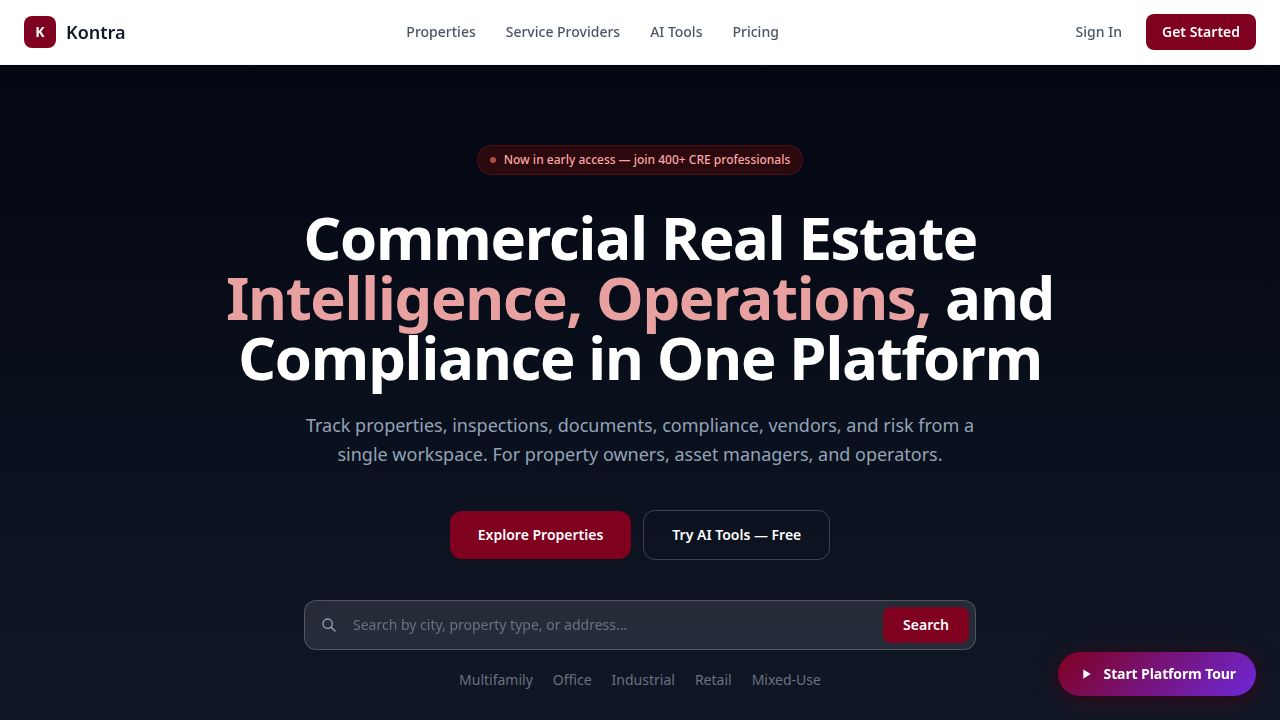
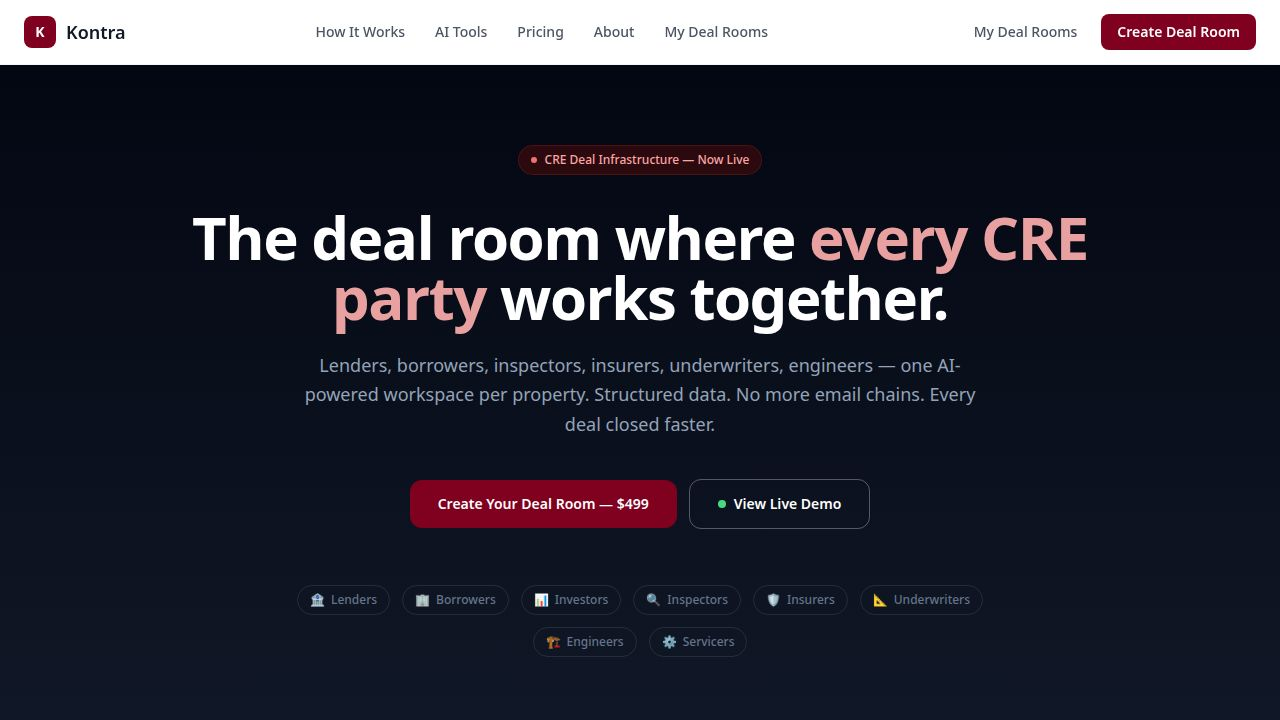
Update the demo deal room to display live property information
Modify the DealRoomPage and related components to dynamically display demo property data and suppress certain UI elements for a read-only experience. Update the seed-demo.js script to populate the demo deal room with relevant data.

Replit-Commit-Author: Agent
Replit-Commit-Session-Id: b37e2fe5-8174-4ac1-80ce-5b05dc734bf9
Replit-Commit-Checkpoint-Type: full_checkpoint
Replit-Commit-Event-Id: edbdeaed-9897-41a5-a7bc-4b3372b62b30
Replit-Commit-Screenshot-Url: https://storage.googleapis.com/screenshot-production-us-central1/43b2d839-9258-4985-bc9b-23e6ed0a3cc7/b37e2fe5-8174-4ac1-80ce-5b05dc734bf9/JeFcH1q
Replit-Helium-Checkpoint-Created: true

diff --git a/kontra-ui-clone/api/seed-demo.js b/kontra-ui-clone/api/seed-demo.js
@@ -1,0 +1,214 @@
+require('dotenv').config({ override: true });
+const { supabase } = require('./db');
+
+async function seed() {
+  const now = Date.now();
+  const daysAgo = d => new Date(now - d * 86400000).toISOString();
+
+  // 1. Upsert the demo deal room
+  const { error: roomErr } = await supabase.from('deal_rooms').upsert({
+    property_id: 'kontra-demo',
+    property_name: 'The Meridian Apartments',
+    property_type: 'Multifamily',
+    address: '4200 Lamar Blvd, Austin, TX 78756',
+    deal_amount: 14000000,
+    deal_type: 'Acquisition',
+    deal_stage: 'under_review',
+    status: 'active',
+    customer_email: '[email redacted]',
+    first_name: 'Demo',
+    activated_at: daysAgo(12),
+    created_at: daysAgo(14),
+  }, { onConflict: 'property_id' });
+  console.log('deal_rooms:', roomErr?.message || '✅');
+
+  // 2. Clear and re-seed analyses
+  await supabase.from('deal_analyses').delete().eq('property_id', 'kontra-demo');
+
+  const analyses = [
+    {
+      section: 'financials',
+      filename: 'meridian-t12-operating-statement.pdf',
+      uploaded_by_role: 'owner',
+      created_at: daysAgo(11),
+      analysis: {
+        documentType: "T-12 Operating Statement",
+        noi: "$842,400", occupancy: "94.2%", dscr: "1.31x",
+        revenue: "$1,891,200", expenses: "$1,048,800",
+        revpar: null, adr: null, gopPar: null, revparIndex: null,
+        roomsRevenue: null, fbRevenue: null,
+        anomalies: [
+          { item: "Utilities", description: "Utility expenses 18% above prior year — likely rate increases", severity: "Medium" },
+          { item: "Maintenance Reserve", description: "Reserve underfunded vs. property age", severity: "Low" },
+        ],
+        trends: [
+          "NOI grew 6.4% year-over-year",
+          "Rent collections 98.7% — above market",
+          "OpEx ratio stable at 55.5%",
+        ],
+        covenantStatus: "Compliant",
+        summary: "Strong performing asset. NOI of $842,400 supports the $14M acquisition at a 6.02% cap rate. DSCR of 1.31x comfortably above typical lender minimum of 1.20x. Minor utility variance warrants monitoring.",
+        recommendations: [
+          "Negotiate utility reimbursement clause in new leases",
+          "Budget $85,000 for deferred maintenance reserve",
+          "Verify rent roll against actual lease agreements",
+        ],
+        confidence: 94,
+        sources: [
+          { page: "Page 2", quote: "Total Revenue: $1,891,200 for the trailing 12-month period" },
+          { page: "Page 4", quote: "Net Operating Income: $842,400" },
+          { page: "Page 6", quote: "Average Occupancy: 94.2% across all 120 units" },
+        ],
+      },
+    },
+    {
+      section: 'inspection',
+      filename: 'meridian-inspection-report-rodriguez.pdf',
+      uploaded_by_role: 'inspector',
+      created_at: daysAgo(10),
+      analysis: {
+        overallCondition: "Good",
+        yearBuilt: 1998,
+        roofCondition: "Fair — original roof, 3-5 years remaining",
+        hvacCondition: "Good — units replaced 2019–2022",
+        plumbingCondition: "Good",
+        electricalCondition: "Good — panels updated 2018",
+        foundationCondition: "Excellent",
+        lifeSafetyFindings: [],
+        deferredMaintenance: [
+          { item: "Roof replacement", estimatedCost: "$380,000", priority: "High", timeframe: "3-5 years" },
+          { item: "Exterior paint & siding", estimatedCost: "$95,000", priority: "Medium", timeframe: "1-2 years" },
+          { item: "Pool deck resurfacing", estimatedCost: "$28,000", priority: "Low", timeframe: "2-3 years" },
+        ],
+        totalDeferredMaintenanceCost: "$503,000",
+        summary: "Good overall condition for a 1998 vintage asset. No life-safety or structural deficiencies identified. Primary capital need is roof replacement within 3-5 years, estimated at $380,000. Recommend seller credit or price adjustment of $450,000–$503,000.",
+        recommendations: [
+          "Negotiate $450,000–$503,000 seller credit for deferred maintenance",
+          "Commission roof core samples to refine timeline",
+          "Obtain HVAC service history for pre-2019 units",
+        ],
+        confidence: 91,
+        sources: [
+          { page: "Section 3.1", quote: "Roof system: original 1998 installation, estimated 3-5 years remaining useful life" },
+          { page: "Section 5.2", quote: "No life-safety deficiencies identified" },
+          { page: "Section 7", quote: "Total estimated deferred maintenance: $503,000" },
+        ],
+      },
+    },
+    {
+      section: 'insurance',
+      filename: 'meridian-insurance-cert-allied.pdf',
+      uploaded_by_role: 'insurer',
+      created_at: daysAgo(9),
+      analysis: {
+        policyType: "Commercial Property & General Liability",
+        carrier: "Allied Property & Casualty",
+        coverageAmount: "$16,500,000",
+        liabilityLimit: "$2,000,000",
+        deductible: "$25,000",
+        policyExpiration: "2027-03-15",
+        coverageGaps: [
+          { gap: "Flood coverage not included — Zone X (low risk area)", severity: "Low" },
+        ],
+        complianceStatus: "Compliant",
+        summary: "Coverage is adequate for the $14M acquisition. Property insured at $16.5M replacement cost, exceeding purchase price. GL at $2M. No material coverage gaps. Lender will require loss payee endorsement and 30-day cancellation notice.",
+        recommendations: [
+          "Request loss payee endorsement naming lender",
+          "Confirm 30-day cancellation notice provision",
+          "Evaluate $5M umbrella for institutional-grade coverage",
+        ],
+        confidence: 96,
+        sources: [
+          { page: "Dec Page", quote: "Property Coverage Limit: $16,500,000 replacement cost value" },
+          { page: "Dec Page", quote: "General Liability: $2,000,000 each occurrence" },
+          { page: "Endorsements", quote: "Policy expiration: March 15, 2027" },
+        ],
+      },
+    },
+    {
+      section: 'legal',
+      filename: 'meridian-purchase-sale-agreement.pdf',
+      uploaded_by_role: 'attorney',
+      created_at: daysAgo(8),
+      analysis: {
+        documentType: "Purchase and Sale Agreement",
+        parties: ["Meridian Holdings LLC (Seller)", "Apex Capital Partners (Buyer)"],
+        keyDates: [
+          { event: "Effective Date", date: "2026-06-01" },
+          { event: "Due Diligence Period Ends", date: "2026-07-15" },
+          { event: "Closing Date", date: "2026-08-20" },
+        ],
+        contingencies: [
+          "Financing contingency — 21 days",
+          "Inspection contingency — 14 days",
+          "Title review contingency — 10 days",
+        ],
+        redFlags: [
+          { issue: "Seller's litigation representation is broad — confirm no active tenant claims before July 15", severity: "Moderate" },
+        ],
+        covenants: [
+          "Seller to maintain property through closing",
+          "No new leases exceeding 13 months without buyer consent",
+          "Buyer deposit: $280,000 (2%) — hard after due diligence",
+        ],
+        complianceStatus: "Review Required",
+        summary: "PSA is standard form with buyer-favorable terms. Key risk is broad litigation representation — recommend title search and PACER check before due diligence expiration July 15. $280,000 deposit goes hard after that date.",
+        recommendations: [
+          "Run PACER search for pending federal litigation",
+          "Order preliminary title report within 5 business days",
+          "Confirm lender commitment letter before July 15 hard deposit date",
+        ],
+        confidence: 89,
+        sources: [
+          { page: "Section 4.2", quote: "Seller represents and warrants: no pending or threatened litigation..." },
+          { page: "Section 6.1", quote: "Closing Date: August 20, 2026" },
+          { page: "Section 3.1", quote: "Earnest Money Deposit: $280,000 — non-refundable upon expiration of Due Diligence Period" },
+        ],
+      },
+    },
+  ];
+
+  for (const a of analyses) {
+    const { error } = await supabase.from('deal_analyses').insert({ property_id: 'kontra-demo', ...a });
+    console.log(`  ${a.section}:`, error?.message || '✅');
+  }
+
+  // 3. Party submissions
+  await supabase.from('party_submissions').delete().eq('property_id', 'kontra-demo');
+  const parties = [
+    { role: 'lender',    name: 'First National Capital',      email: '[email redacted]',    doc_count: 0, submitted_at: daysAgo(7) },
+    { role: 'inspector', name: 'Rodriguez & Associates',      email: '[email redacted]', doc_count: 1, submitted_at: daysAgo(10) },
+    { role: 'insurer',   name: 'Allied Property & Casualty',  email: '[email redacted]',   doc_count: 1, submitted_at: daysAgo(9) },
+    { role: 'attorney',  name: 'Morrison & Foerster LLP',     email: '[email redacted]',  doc_count: 1, submitted_at: daysAgo(8) },
+  ];
+  for (const p of parties) {
+    const { error } = await supabase.from('party_submissions').upsert(
+      { property_id: 'kontra-demo', ...p },
+      { onConflict: 'property_id,role' }
+    );
+    console.log(`  ${p.role}:`, error?.message || '✅');
+  }
+
+  // 4. Deal events (activity timeline)
+  await supabase.from('deal_events').delete().eq('property_id', 'kontra-demo');
+  const events = [
+    { event_type: 'room_created',       actor_role: 'owner',    actor_name: 'Apex Capital',           description: 'Deal room created for The Meridian Apartments',   metadata: {},                        created_at: daysAgo(14) },
+    { event_type: 'document_analyzed',  actor_role: 'owner',    actor_name: 'Apex Capital',           description: 'T-12 Financial Statement analyzed by AI',          metadata: { section: 'financials' }, created_at: daysAgo(11) },
+    { event_type: 'document_analyzed',  actor_role: 'inspector',actor_name: 'Rodriguez & Associates', description: 'Inspection Report analyzed — Good condition',       metadata: { section: 'inspection' }, created_at: daysAgo(10) },
+    { event_type: 'party_submitted',    actor_role: 'inspector',actor_name: 'Rodriguez & Associates', description: 'Inspector signaled ready',                          metadata: { role: 'inspector' },    created_at: daysAgo(10) },
+    { event_type: 'document_analyzed',  actor_role: 'insurer',  actor_name: 'Allied P&C',             description: 'Insurance Certificate analyzed — Compliant',       metadata: { section: 'insurance' }, created_at: daysAgo(9) },
+    { event_type: 'party_submitted',    actor_role: 'insurer',  actor_name: 'Allied P&C',             description: 'Insurer signaled ready',                           metadata: { role: 'insurer' },      created_at: daysAgo(9) },
+    { event_type: 'document_analyzed',  actor_role: 'attorney', actor_name: 'Morrison & Foerster',    description: 'Purchase Agreement reviewed — action items noted', metadata: { section: 'legal' },     created_at: daysAgo(8) },
+    { event_type: 'party_submitted',    actor_role: 'attorney', actor_name: 'Morrison & Foerster',    description: 'Attorney signaled ready',                          metadata: { role: 'attorney' },     created_at: daysAgo(8) },
+    { event_type: 'party_submitted',    actor_role: 'lender',   actor_name: 'First National Capital', description: 'Lender completed underwriting review',             metadata: { role: 'lender' },       created_at: daysAgo(7) },
+    { event_type: 'stage_advanced',     actor_role: 'owner',    actor_name: 'Apex Capital',           description: 'Deal advanced to Under Review',                    metadata: { stage: 'under_review' },created_at: daysAgo(6) },
+  ];
+  for (const e of events) {
+    const { error } = await supabase.from('deal_events').insert({ property_id: 'kontra-demo', ...e });
+    if (error) console.log(`  event ${e.event_type}:`, error.message);
+  }
+  console.log('Deal events: ✅');
+  console.log('\n🎉 Demo seeded — visit /deal-room/kontra-demo');
+}
+
+seed().catch(console.error);

diff --git a/kontra-ui-clone/ui/src/pages/public/DealRoomPage.jsx b/kontra-ui-clone/ui/src/pages/public/DealRoomPage.jsx
@@ -1282,6 +1282,15 @@ export default function DealRoomPage() {
     };
   }
 
+  const isDemo = propertyId === 'kontra-demo';
+
+  // For the demo room — override with a great hero image
+  if (isDemo && property) {
+    property.image = "https://images.unsplash.com/photo-1545324418-cc1a3fa10c00?w=1200&q=80";
+    property.market = "Austin, TX";
+    property.deal_amount = property.deal_amount || "14,000,000";
+  }
+
   const baseRoleConfig = ROLE_CONFIG[role] || ROLE_CONFIG.lender;
   const isHotel = (property?.property_type || "").toLowerCase().includes("hotel") ||
                   (property?.property_type || "").toLowerCase().includes("hospitality");
@@ -1335,8 +1344,27 @@ export default function DealRoomPage() {
 
   return (
     <PublicLayout hideFooter>
-      {/* Top bar — owner (custom rooms) vs invite (demo rooms) */}
-      {property.isCustom ? (
+      {/* Top bar — demo banner | owner bar | invite bar */}
+      {isDemo ? (
+        <div className="border-b border-indigo-100 px-6 py-3" style={{ background: "linear-gradient(90deg, #1e1b4b 0%, #312e81 100%)" }}>
+          <div className="max-w-5xl mx-auto flex items-center justify-between gap-4">
+            <div className="flex items-center gap-3">
+              <span className="flex items-center gap-1.5 px-2.5 py-1 rounded-full bg-white/10 text-[11px] font-bold text-white">
+                <span className="w-1.5 h-1.5 rounded-full bg-green-400 animate-pulse" />
+                LIVE DEMO
+              </span>
+              <div>
+                <p className="text-xs font-semibold text-white">The Meridian Apartments — $14M Acquisition</p>
+                <p className="text-[10px] text-white/50">Explore a real Kontra deal room · Read-only · No signup required</p>
+              </div>
+            </div>
+            <Link to="/create-deal-room"
+              className="shrink-0 px-4 py-2 rounded-xl text-xs font-bold text-indigo-900 bg-white hover:opacity-90 transition whitespace-nowrap">
+              Create Your Deal Room →
+            </Link>
+          </div>
+        </div>
+      ) : property.isCustom ? (
         <div className="border-b border-green-100 bg-green-50 px-6 py-3">
           <div className="max-w-5xl mx-auto flex items-center justify-between gap-4">
             <div className="flex items-center gap-2.5">
@@ -1389,7 +1417,8 @@ export default function DealRoomPage() {
             <div className="flex-1">
               <p className="text-xs text-white/60 mb-0.5">
                 {property.type}{property.market ? ` · ${property.market}` : ""}
-                {property.isCustom && <span className="ml-2 px-1.5 py-0.5 rounded bg-amber-500/30 text-amber-200 text-[10px] font-semibold">Awaiting Documents</span>}
+                {property.isCustom && !isDemo && <span className="ml-2 px-1.5 py-0.5 rounded bg-amber-500/30 text-amber-200 text-[10px] font-semibold">Awaiting Documents</span>}
+              {isDemo && <span className="ml-2 px-1.5 py-0.5 rounded text-[10px] font-semibold" style={{ background: "rgba(99,102,241,0.4)", color: "#c7d2fe" }}>Under Review</span>}
               </p>
               <h1 className="text-xl font-bold text-white">{property.name}</h1>
               <p className="text-xs text-white/70">{property.address}</p>
@@ -1429,6 +1458,7 @@ export default function DealRoomPage() {
             propertyId={propertyId || property.property_id || property.id}
             propertyType={property.property_type || property.type}
             role={role}
+            isDemo={isDemo}
           />
         )}
 
@@ -1520,11 +1550,46 @@ export default function DealRoomPage() {
         )}
 
         {/* Invite panel — request documents from each party */}
-        {property.isCustom && (
+        {property.isCustom && !isDemo && (
           <InvitePanel
             propertyId={propertyId || property.property_id || property.id}
             senderName={property.first_name || property.property_name || undefined}
           />
+        )}
+
+        {/* Demo bottom CTA */}
+        {isDemo && (
+          <div className="rounded-2xl overflow-hidden border border-indigo-100 mt-2">
+            <div className="px-8 py-8 text-center" style={{ background: "linear-gradient(135deg, #1e1b4b 0%, #4338ca 100%)" }}>
+              <p className="text-xs font-semibold uppercase tracking-wider text-white/50 mb-2">
+                You just experienced Kontra
+              </p>
+              <h2 className="text-2xl font-extrabold text-white mb-2">
+                Ready to close your deal faster?
+              </h2>
+              <p className="text-sm text-white/60 mb-6 max-w-md mx-auto">
+                Set up a deal room for your property in under 2 minutes. AI analyzes every document as it's uploaded. Every party gets their own view.
+              </p>
+              <div className="flex flex-col sm:flex-row items-center justify-center gap-3">
+                <Link to="/create-deal-room"
+                  className="px-8 py-3 rounded-xl text-sm font-bold bg-white text-indigo-900 hover:opacity-90 transition">
+                  Create Your Deal Room — $499 →
+                </Link>
+                <Link to="/pricing"
+                  className="px-6 py-3 rounded-xl text-sm font-semibold border border-white/20 text-white/80 hover:bg-white/10 transition">
+                  See Pricing
+                </Link>
+              </div>
+              <p className="text-[10px] text-white/30 mt-4">One-time fee · No subscription · 90-day access included</p>
+            </div>
+            <div className="bg-gray-50 px-8 py-4 flex flex-wrap items-center justify-center gap-x-6 gap-y-2 border-t border-gray-100">
+              {["2 min setup", "18 sec AI review", "Unlimited participants", "Unlimited documents"].map(f => (
+                <span key={f} className="text-xs text-gray-500 flex items-center gap-1.5">
+                  <span className="text-green-500">✓</span> {f}
+                </span>
+              ))}
+            </div>
+          </div>
         )}
 
       </div>

diff --git a/kontra-ui-clone/ui/src/pages/public/HomePage.jsx b/kontra-ui-clone/ui/src/pages/public/HomePage.jsx
@@ -202,9 +202,10 @@ export default function HomePage() {
               style={{ background: "#800020" }}>
               Create Your Deal Room — $499
             </Link>
-            <Link to="/how-it-works"
-              className="px-7 py-3.5 rounded-xl text-sm font-semibold border border-white/20 text-white hover:bg-white/10 transition">
-              See How It Works
+            <Link to="/deal-room/kontra-demo"
+              className="px-7 py-3.5 rounded-xl text-sm font-semibold border border-white/30 text-white hover:bg-white/10 transition flex items-center gap-2">
+              <span className="w-2 h-2 rounded-full bg-green-400 animate-pulse shrink-0" />
+              View Live Demo
             </Link>
           </div>
 

diff --git a/kontra-ui-clone/ui/src/pages/public/DocumentChecklistPanel.jsx b/kontra-ui-clone/ui/src/pages/public/DocumentChecklistPanel.jsx
@@ -124,7 +124,7 @@ function getCompletenessIssues(analysis, section) {
 }
 
 // ── Main component ─────────────────────────────────────────────────────────────
-export default function DocumentChecklistPanel({ propertyId, propertyType, role }) {
+export default function DocumentChecklistPanel({ propertyId, propertyType, role, isDemo = false }) {
   const [analyses, setAnalyses] = useState([]);
   const [loading, setLoading] = useState(true);
   const [uploadingSection, setUploadingSection] = useState(null);
@@ -280,7 +280,7 @@ export default function DocumentChecklistPanel({ propertyId, propertyType, role 
                       </div>
 
                       {/* Upload button for non-AI lightweight docs */}
-                      {!done && !item.ai && (
+                      {!done && !isDemo && !item.ai && (
                         <div className="shrink-0">
                           <input
                             type="file"
@@ -301,7 +301,7 @@ export default function DocumentChecklistPanel({ propertyId, propertyType, role 
                           </button>
                         </div>
                       )}
-                      {!done && item.ai && (
+                      {!done && !isDemo && item.ai && (
                         <span className="shrink-0 text-[11px] text-gray-400 italic">
                           Use upload card ↓
                         </span>